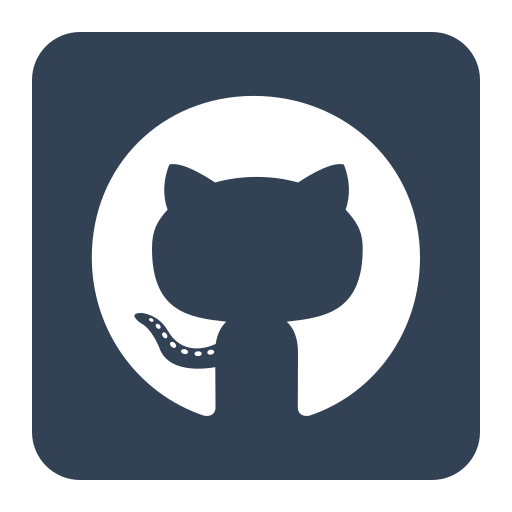
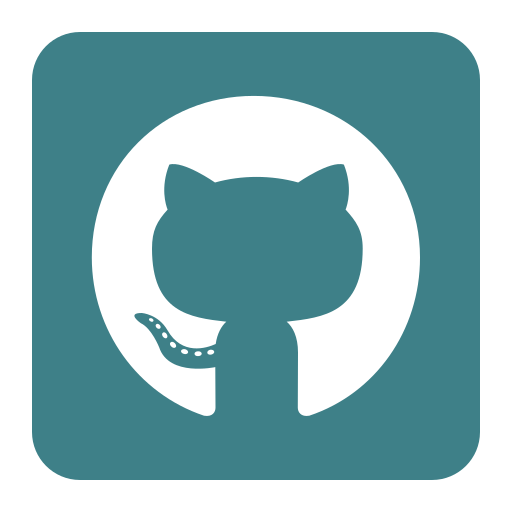
Adjust color and social media, links

diff --git a/src/app/about/page.jsx b/src/app/about/page.jsx
@@ -68,13 +68,13 @@ const AboutPage = () => {
             >
               <path
                 d="M5 15C5 16.8565 5.73754 18.6371 7.05029 19.9498C8.36305 21.2626 10.1435 21.9999 12 21.9999C13.8565 21.9999 15.637 21.2626 16.9498 19.9498C18.2625 18.6371 19 16.8565 19 15V9C19 7.14348 18.2625 5.36305 16.9498 4.05029C15.637 2.73754 13.8565 2 12 2C10.1435 2 8.36305 2.73754 7.05029 4.05029C5.73754 5.36305 5 7.14348 5 9V15Z"
-                stroke="#334155"
+                stroke="#5A698F"
                 strokeWidth="1"
               ></path>
-              <path d="M12 6V14" stroke="#334155" strokeWidth="1"></path>
+              <path d="M12 6V14" stroke="#5A698F" strokeWidth="1"></path>
               <path
                 d="M15 11L12 14L9 11"
-                stroke="#334155"
+                stroke="#5A698F"
                 strokeWidth="1"
               ></path>
             </motion.svg>
@@ -96,49 +96,49 @@ const AboutPage = () => {
               animate={isSkillRefInView ? { x: 0 } : {}}
               className="flex gap-4 flex-wrap"
             >
-              <div className="rounded  p-2 text-sm cursor-pointer bg-slate-700 text-white hover:bg-white hover:text-slate-700">
+              <div className="rounded  p-2 text-sm cursor-pointer bg-semi-dark-green text-white hover:bg-white hover:text-dark-grey">
                 JavaScript
               </div>
-              <div className="rounded  p-2 text-sm cursor-pointer bg-slate-700 text-white hover:bg-white hover:text-slate-700">
+              <div className="rounded  p-2 text-sm cursor-pointer bg-semi-dark-green text-white hover:bg-white hover:text-dark-grey">
                 TypeScript
               </div>
-              <div className="rounded  p-2 text-sm cursor-pointer bg-slate-700 text-white hover:bg-white hover:text-slate-700">
+              <div className="rounded  p-2 text-sm cursor-pointer bg-semi-dark-green text-white hover:bg-white hover:text-dark-grey">
                 React.js
               </div>
-              <div className="rounded  p-2 text-sm cursor-pointer bg-slate-700 text-white hover:bg-white hover:text-slate-700">
+              <div className="rounded  p-2 text-sm cursor-pointer bg-semi-dark-green text-white hover:bg-white hover:text-dark-grey">
                 Next.js
               </div>
-              <div className="rounded  p-2 text-sm cursor-pointer bg-slate-700 text-white hover:bg-white hover:text-slate-700">
+              <div className="rounded  p-2 text-sm cursor-pointer bg-semi-dark-green text-white hover:bg-white hover:text-dark-grey">
                 Astro
               </div>
-              <div className="rounded  p-2 text-sm cursor-pointer bg-slate-700 text-white hover:bg-white hover:text-slate-700">
+              <div className="rounded  p-2 text-sm cursor-pointer bg-semi-dark-green text-white hover:bg-white hover:text-dark-grey">
                 Tailwind CSS
               </div>
-              <div className="rounded  p-2 text-sm cursor-pointer bg-slate-700 text-white hover:bg-white hover:text-slate-700">
+              <div className="rounded  p-2 text-sm cursor-pointer bg-semi-dark-green text-white hover:bg-white hover:text-dark-grey">
                 MongoDB
               </div>
-              <div className="rounded  p-2 text-sm cursor-pointer bg-slate-700 text-white hover:bg-white hover:text-slate-700">
+              <div className="rounded  p-2 text-sm cursor-pointer bg-semi-dark-green text-white hover:bg-white hover:text-dark-grey">
                 MySQL
               </div>
-              <div className="rounded  p-2 text-sm cursor-pointer bg-slate-700 text-white hover:bg-white hover:text-slate-700">
+              <div className="rounded  p-2 text-sm cursor-pointer bg-semi-dark-green text-white hover:bg-white hover:text-dark-grey">
                 Node.js
               </div>
-              <div className="rounded  p-2 text-sm cursor-pointer bg-slate-700 text-white hover:bg-white hover:text-slate-700">
+              <div className="rounded  p-2 text-sm cursor-pointer bg-semi-dark-green text-white hover:bg-white hover:text-dark-grey">
                 Express.js
               </div>
-              <div className="rounded  p-2 text-sm cursor-pointer bg-slate-700 text-white hover:bg-white hover:text-slate-700">
+              <div className="rounded  p-2 text-sm cursor-pointer bg-semi-dark-green text-white hover:bg-white hover:text-dark-grey">
                 Framer Motion
               </div>
-              <div className="rounded  p-2 text-sm cursor-pointer bg-slate-700 text-white hover:bg-white hover:text-slate-700">
+              <div className="rounded  p-2 text-sm cursor-pointer bg-semi-dark-green text-white hover:bg-white hover:text-dark-grey">
                 Webpack
               </div>
-              <div className="rounded  p-2 text-sm cursor-pointer bg-slate-700 text-white hover:bg-white hover:text-slate-700">
+              <div className="rounded  p-2 text-sm cursor-pointer bg-semi-dark-green text-white hover:bg-white hover:text-dark-grey">
                 Vite
               </div>
-              <div className="rounded  p-2 text-sm cursor-pointer bg-slate-700 text-white hover:bg-white hover:text-slate-700">
+              <div className="rounded  p-2 text-sm cursor-pointer bg-semi-dark-green text-white hover:bg-white hover:text-dark-grey">
                 Git
               </div>
-              <div className="rounded  p-2 text-sm cursor-pointer bg-slate-700 text-white hover:bg-white hover:text-slate-700">
+              <div className="rounded  p-2 text-sm cursor-pointer bg-semi-dark-green text-white hover:bg-white hover:text-dark-grey">
                 Figma
               </div>
             </motion.div>
@@ -155,13 +155,13 @@ const AboutPage = () => {
             >
               <path
                 d="M5 15C5 16.8565 5.73754 18.6371 7.05029 19.9498C8.36305 21.2626 10.1435 21.9999 12 21.9999C13.8565 21.9999 15.637 21.2626 16.9498 19.9498C18.2625 18.6371 19 16.8565 19 15V9C19 7.14348 18.2625 5.36305 16.9498 4.05029C15.637 2.73754 13.8565 2 12 2C10.1435 2 8.36305 2.73754 7.05029 4.05029C5.73754 5.36305 5 7.14348 5 9V15Z"
-                stroke="#334155"
+                stroke="#5A698F"
                 strokeWidth="1"
               ></path>
-              <path d="M12 6V14" stroke="#334155" strokeWidth="1"></path>
+              <path d="M12 6V14" stroke="#5A698F" strokeWidth="1"></path>
               <path
                 d="M15 11L12 14L9 11"
-                stroke="#334155"
+                stroke="#5A698F"
                 strokeWidth="1"
               ></path>
             </motion.svg>
@@ -191,7 +191,7 @@ const AboutPage = () => {
                 {/* LEFT */}
                 <div className="w-1/3 ">
                   {/* JOB DATE */}
-                  <div className="px-3 pb-3 text-slate-500 text-sm font-semibold">
+                  <div className="px-3 pb-3 text-semi-dark-green text-sm font-semibold">
                     2024 - Present
                   </div>
                   {/* JOB TITLE */}
@@ -213,7 +213,7 @@ const AboutPage = () => {
                   {/* LINE */}
                   <div className="w-1 h-full bg-slate-700 rounded relative">
                     {/* LINE CIRCLE */}
-                    <div className="absolute w-5 h-5 rounded-full ring-4 ring-slate-400 bg-white -left-2"></div>
+                    <div className="absolute w-5 h-5 rounded-full ring-4 ring-semi-dark-green bg-white -left-2"></div>
                   </div>
                 </div>
                 {/* RIGHT */}
@@ -228,13 +228,13 @@ const AboutPage = () => {
                   {/* LINE */}
                   <div className="w-1 h-full bg-slate-700 rounded relative">
                     {/* LINE CIRCLE */}
-                    <div className="absolute w-5 h-5 rounded-full ring-4 ring-slate-400 bg-white -left-2"></div>
+                    <div className="absolute w-5 h-5 rounded-full ring-4 ring-semi-dark-green bg-white -left-2"></div>
                   </div>
                 </div>
                 {/* RIGHT */}
                 <div className="w-1/3 ">
                   {/* JOB DATE */}
-                  <div className="px-3 pb-3 text-slate-500 text-sm font-semibold">
+                  <div className="px-3 pb-3 text-semi-dark-green text-sm font-semibold">
                     2019 - 2024{" "}
                   </div>
                   {/* JOB TITLE */}
@@ -257,7 +257,7 @@ const AboutPage = () => {
                 {/* LEFT */}
                 <div className="w-1/3 ">
                   {/* JOB DATE */}
-                  <div className="px-3 pb-3 text-slate-500 text-sm font-semibold">
+                  <div className="px-3 pb-3 text-semi-dark-green text-sm font-semibold">
                     2010 - 2019{" "}
                   </div>
                   {/* JOB TITLE */}
@@ -275,7 +275,7 @@ const AboutPage = () => {
                   {/* LINE */}
                   <div className="w-1 h-full bg-slate-700 rounded relative">
                     {/* LINE CIRCLE */}
-                    <div className="absolute w-5 h-5 rounded-full ring-4 ring-slate-400 bg-white -left-2"></div>
+                    <div className="absolute w-5 h-5 rounded-full ring-4 ring-semi-dark-green bg-white -left-2"></div>
                   </div>
                 </div>
                 {/* RIGHT */}

diff --git a/src/components/navbar.jsx b/src/components/navbar.jsx
@@ -3,7 +3,6 @@
 import { motion } from "framer-motion";
 import { useState } from "react";
 
-import Image from "next/image";
 import Link from "next/link";
 import NavLink from "./navLink";
 
@@ -82,7 +81,7 @@ const Navbar = () => {
       <div className="md:hidden lg:flex xl:w-1/3 xl:justify-center">
         <Link
           href="/"
-          className="text-sm bg-slate-700 rounded-md p-1 font-semibold flex items-center justify-center"
+          className="text-sm bg-[#3e8088] rounded-md p-1 font-semibold flex items-center justify-center"
         >
           <span className="text-white p-1">solarluiso</span>
           <span className="w-10 h-6 rounded bg-white flex items-center justify-center">
@@ -93,21 +92,78 @@ const Navbar = () => {
 
       {/* SOCIAL */}
       <div className="hidden md:flex gap-4 w-1/3 justify-end items-center">
-        <Link href="https://www.linkedin.com/in/solarluiso/" target="_blank">
-          <Image src="/linkedin.png" alt="" width={28} height={28} />
-        </Link>
-        <Link href="https://github.com/solarluiso" target="_blank">
-          <Image src="/github.png" alt="" width={28} height={28} />
-        </Link>
-        <Link href="https://discordapp.com/users/solarluiso" target="_blank">
-          <Image
-            src="/discord.png"
-            alt=""
-            width={29}
-            height={29}
-            className="mt-1"
-          />
-        </Link>
+        <section className="flex justify-center items-center">
+          <Link
+            href="https://www.linkedin.com/in/solarluiso/"
+            target="_blank"
+            className="group flex justify-center p-2 rounded-lg drop-shadow-xl bg-semi-dark-green text-white font-semibold hover:translate-y-2 hover:rounded-[50%] transition-all duration-500"
+          >
+            <svg
+              xmlns="http://www.w3.org/2000/svg"
+              width="1em"
+              height="1.1em"
+              viewBox="0 0 512 512"
+              stroke-width="0"
+              fill="currentColor"
+              stroke="currentColor"
+              class="w-5 h-5"
+            >
+              <path d="M444.17 32H70.28C49.85 32 32 46.7 32 66.89v374.72C32 461.91 49.85 480 70.28 480h373.78c20.54 0 35.94-18.21 35.94-38.39V66.89C480.12 46.7 464.6 32 444.17 32zm-273.3 373.43h-64.18V205.88h64.18zM141 175.54h-.46c-20.54 0-33.84-15.29-33.84-34.43 0-19.49 13.65-34.42 34.65-34.42s33.85 14.82 34.31 34.42c-.01 19.14-13.31 34.43-34.66 34.43zm264.43 229.89h-64.18V296.32c0-26.14-9.34-44-32.56-44-17.74 0-28.24 12-32.91 23.69-1.75 4.2-2.22 9.92-2.22 15.76v113.66h-64.18V205.88h64.18v27.77c9.34-13.3 23.93-32.44 57.88-32.44 42.13 0 74 27.77 74 87.64z"></path>
+            </svg>
+            <span class="absolute opacity-0 group-hover:opacity-100 group-hover:text-dark-grey group-hover:text-sm group-hover:-translate-y-10 duration-700">
+              Linkedin
+            </span>
+          </Link>
+        </section>
+
+        <section class="flex justify-center items-center">
+          <Link
+            href="https://github.com/solarluiso"
+            target="_blank"
+            className="group flex justify-center p-2 rounded-lg drop-shadow-xl bg-semi-dark-green text-white font-semibold hover:translate-y-2 hover:rounded-[50%] transition-all duration-500"
+          >
+            <svg
+              xmlns="http://www.w3.org/2000/svg"
+              fill="none"
+              viewBox="0 0 15 15"
+              class="w-5 h-5"
+            >
+              <path
+                clip-rule="evenodd"
+                fill-rule="evenodd"
+                fill="currentColor"
+                d="M7.49933 0.25C3.49635 0.25 0.25 3.49593 0.25 7.50024C0.25 10.703 2.32715 13.4206 5.2081 14.3797C5.57084 14.446 5.70302 14.2222 5.70302 14.0299C5.70302 13.8576 5.69679 13.4019 5.69323 12.797C3.67661 13.235 3.25112 11.825 3.25112 11.825C2.92132 10.9874 2.44599 10.7644 2.44599 10.7644C1.78773 10.3149 2.49584 10.3238 2.49584 10.3238C3.22353 10.375 3.60629 11.0711 3.60629 11.0711C4.25298 12.1788 5.30335 11.8588 5.71638 11.6732C5.78225 11.205 5.96962 10.8854 6.17658 10.7043C4.56675 10.5209 2.87415 9.89918 2.87415 7.12104C2.87415 6.32925 3.15677 5.68257 3.62053 5.17563C3.54576 4.99226 3.29697 4.25521 3.69174 3.25691C3.69174 3.25691 4.30015 3.06196 5.68522 3.99973C6.26337 3.83906 6.8838 3.75895 7.50022 3.75583C8.1162 3.75895 8.73619 3.83906 9.31523 3.99973C10.6994 3.06196 11.3069 3.25691 11.3069 3.25691C11.7026 4.25521 11.4538 4.99226 11.3795 5.17563C11.8441 5.68257 12.1245 6.32925 12.1245 7.12104C12.1245 9.9063 10.4292 10.5192 8.81452 10.6985C9.07444 10.9224 9.30633 11.3648 9.30633 12.0413C9.30633 13.0102 9.29742 13.7922 9.29742 14.0299C9.29742 14.2239 9.42828 14.4496 9.79591 14.3788C12.6746 13.4179 14.75 10.7025 14.75 7.50024C14.75 3.49593 11.5036 0.25 7.49933 0.25Z"
+              ></path>
+            </svg>
+            <span class="absolute opacity-0 group-hover:opacity-100 group-hover:text-dark-grey group-hover:text-sm group-hover:-translate-y-10 duration-700">
+              GitHub
+            </span>
+          </Link>
+        </section>
+
+        <section class="flex justify-center items-center">
+          <Link
+            href="https://discordapp.com/users/solarluiso"
+            target="_blank"
+            className="group flex justify-center p-2 rounded-lg drop-shadow-xl bg-semi-dark-green text-white font-semibold hover:translate-y-2 hover:rounded-[50%] transition-all duration-500"
+          >
+            <svg
+              xmlns="http://www.w3.org/2000/svg"
+              width="1em"
+              height="1em"
+              viewBox="0 0 640 512"
+              stroke-width="0"
+              fill="currentColor"
+              stroke="currentColor"
+              class="w-5 h-5"
+            >
+              <path d="M524.531,69.836a1.5,1.5,0,0,0-.764-.7A485.065,485.065,0,0,0,404.081,32.03a1.816,1.816,0,0,0-1.923.91,337.461,337.461,0,0,0-14.9,30.6,447.848,447.848,0,0,0-134.426,0,309.541,309.541,0,0,0-15.135-30.6,1.89,1.89,0,0,0-1.924-.91A483.689,483.689,0,0,0,116.085,69.137a1.712,1.712,0,0,0-.788.676C39.068,183.651,18.186,294.69,28.43,404.354a2.016,2.016,0,0,0,.765,1.375A487.666,487.666,0,0,0,176.02,479.918a1.9,1.9,0,0,0,2.063-.676A348.2,348.2,0,0,0,208.12,430.4a1.86,1.86,0,0,0-1.019-2.588,321.173,321.173,0,0,1-45.868-21.853,1.885,1.885,0,0,1-.185-3.126c3.082-2.309,6.166-4.711,9.109-7.137a1.819,1.819,0,0,1,1.9-.256c96.229,43.917,200.41,43.917,295.5,0a1.812,1.812,0,0,1,1.924.233c2.944,2.426,6.027,4.851,9.132,7.16a1.884,1.884,0,0,1-.162,3.126,301.407,301.407,0,0,1-45.89,21.83,1.875,1.875,0,0,0-1,2.611,391.055,391.055,0,0,0,30.014,48.815,1.864,1.864,0,0,0,2.063.7A486.048,486.048,0,0,0,610.7,405.729a1.882,1.882,0,0,0,.765-1.352C623.729,277.594,590.933,167.465,524.531,69.836ZM222.491,337.58c-28.972,0-52.844-26.587-52.844-59.239S193.056,219.1,222.491,219.1c29.665,0,53.306,26.82,52.843,59.239C275.334,310.993,251.924,337.58,222.491,337.58Zm195.38,0c-28.971,0-52.843-26.587-52.843-59.239S388.437,219.1,417.871,219.1c29.667,0,53.307,26.82,52.844,59.239C470.715,310.993,447.538,337.58,417.871,337.58Z"></path>
+            </svg>
+            <span class="absolute opacity-0 group-hover:opacity-100 group-hover:text-gray-700 group-hover:text-sm group-hover:-translate-y-10 duration-700">
+              Discord
+            </span>
+          </Link>
+        </section>
       </div>
 
       {/* RESPONSIVE MENU */}
@@ -120,17 +176,17 @@ const Navbar = () => {
           <motion.div
             variants={topVariants}
             animate={open ? "opened" : "closed"}
-            className="w-10 h-1 bg-slate-700 rounded origin-left"
+            className="w-10 h-1 bg-[#3e8088] rounded origin-left"
           ></motion.div>
           <motion.div
             variants={centerVariants}
             animate={open ? "opened" : "closed"}
-            className="w-10 h-1 bg-slate-700 rounded"
+            className="w-10 h-1 bg-[#3e8088] rounded"
           ></motion.div>
           <motion.div
             variants={bottomVariants}
             animate={open ? "opened" : "closed"}
-            className="w-10 h-1 bg-slate-700 rounded origin-left"
+            className="w-10 h-1 bg-[#3e8088] rounded origin-left"
           ></motion.div>
         </button>
         {/* MENU LIST */}
@@ -139,7 +195,7 @@ const Navbar = () => {
             variants={listVariants}
             initial="closed"
             animate="opened"
-            className="absolute top-0 left-0 w-screen h-screen bg-slate-900 text-white font-light flex flex-col items-center justify-center gap-8 text-4xl z-40"
+            className="absolute top-0 left-0 w-screen h-screen bg-[#435f69] text-white font-light flex flex-col items-center justify-center gap-8 text-4xl z-40"
           >
             {links.map((link) => (
               <motion.div

diff --git a/src/app/page.js b/src/app/page.js
@@ -20,7 +20,7 @@ const Homepage = () => {
         {/* TEXT CONTAINER */}
         <div className="h-1/2 lg:h-full lg:w-1/2 flex flex-col gap-8 items-center justify-center">
           {/* TITLE */}
-          <h1 className="text-4xl md:text-6xl text-slate-600 font-bold">
+          <h1 className="text-4xl md:text-6xl text-light-grey font-bold">
             Crafting Web Applications with Soul and Innovation
           </h1>
           {/* DESC */}
@@ -32,10 +32,25 @@ const Homepage = () => {
           </p>
           {/* BUTTONS */}
           <div className="w-full flex gap-4">
-            <button class="cursor-pointer text-white bg-gradient-to-r from-slate-800 to-slate-500 p-4 rounded-lg hover:scale-105 duration-200 hover:text-slate-200 hover:from-black hover:to-slate-700">
-              View My Work
+            <button class="flex justify-between p-4 rounded-lg ring-1 ring-pretty-purple tracking-wider shadow-xl hover:bg-semi-dark-green hover:text-white hover:scale-105 duration-500 hover:ring-1 w-[135px]">
+              Resume
+              <svg
+                xmlns="http://www.w3.org/2000/svg"
+                fill="none"
+                viewBox="0 0 24 24"
+                stroke-width="2"
+                stroke="currentColor"
+                class="w-5 h-5 animate-bounce"
+              >
+                <path
+                  stroke-linecap="round"
+                  stroke-linejoin="round"
+                  d="M19.5 13.5 12 21m0 0-7.5-7.5M12 21V3"
+                ></path>
+              </svg>
             </button>
-            <button className="p-4 rounded-lg ring-1 ring-slate-700">
+
+            <button className="p-4 rounded-lg ring-1 ring-pretty-purple shadow-xl hover:bg-semi-dark-green hover:text-white hover:scale-105 duration-500 hover:ring-1">
               Contact Me
             </button>
           </div>

diff --git a/src/app/contact/page.jsx b/src/app/contact/page.jsx
@@ -70,17 +70,17 @@ const Contact = () => {
           <span>Dear Luiso,</span>
           <textarea
             rows={6}
-            className="bg-transparent border-b-2 border-b-slate-700 outline-none resize-none"
+            className="bg-transparent border-b-2 border-b-dark-grey outline-none resize-none"
             name="user_message"
           />
           <span>My email address is:</span>
           <input
             name="user_email"
             type="text"
-            className="bg-transparent border-b-2 border-b-slate-700 outline-none"
+            className="bg-transparent border-b-2 border-b-dark-grey outline-none"
           />
           <span>Regards!</span>
-          <button className="bg-slate-200 rounded font-semibold p-4">
+          <button className="bg-slate-200 p-4 rounded font-semibold">
             Send
           </button>
           {success && (

diff --git a/tailwind.config.js b/tailwind.config.js
@@ -12,6 +12,17 @@ module.exports = {
         "gradient-conic":
           "conic-gradient(from 180deg at 50% 50%, var(--tw-gradient-stops))",
       },
+      colors: {
+        "light-grey": "#5A698F",
+        "dark-grey": "#485472",
+        "pretty-purple": "#a997f0",
+        "pretty-green": "#7acabf",
+        "semi-dark-green": "#3e8088",
+        "dark-green": "#435f69",
+      },
+      fontFamily: {
+        jetbrains: ["var(--font-jetbrains-mono)", "monospace"],
+      },
     },
   },
   plugins: [],

diff --git a/src/components/navLink.jsx b/src/components/navLink.jsx
@@ -9,7 +9,7 @@ const NavLink = ({ link }) => {
   return (
     <Link
       className={`rounded p-1 ${
-        pathName === link.url && "bg-slate-700 text-white"
+        pathName === link.url && "bg-semi-dark-green text-white"
       }`}
       href={link.url}
     >
